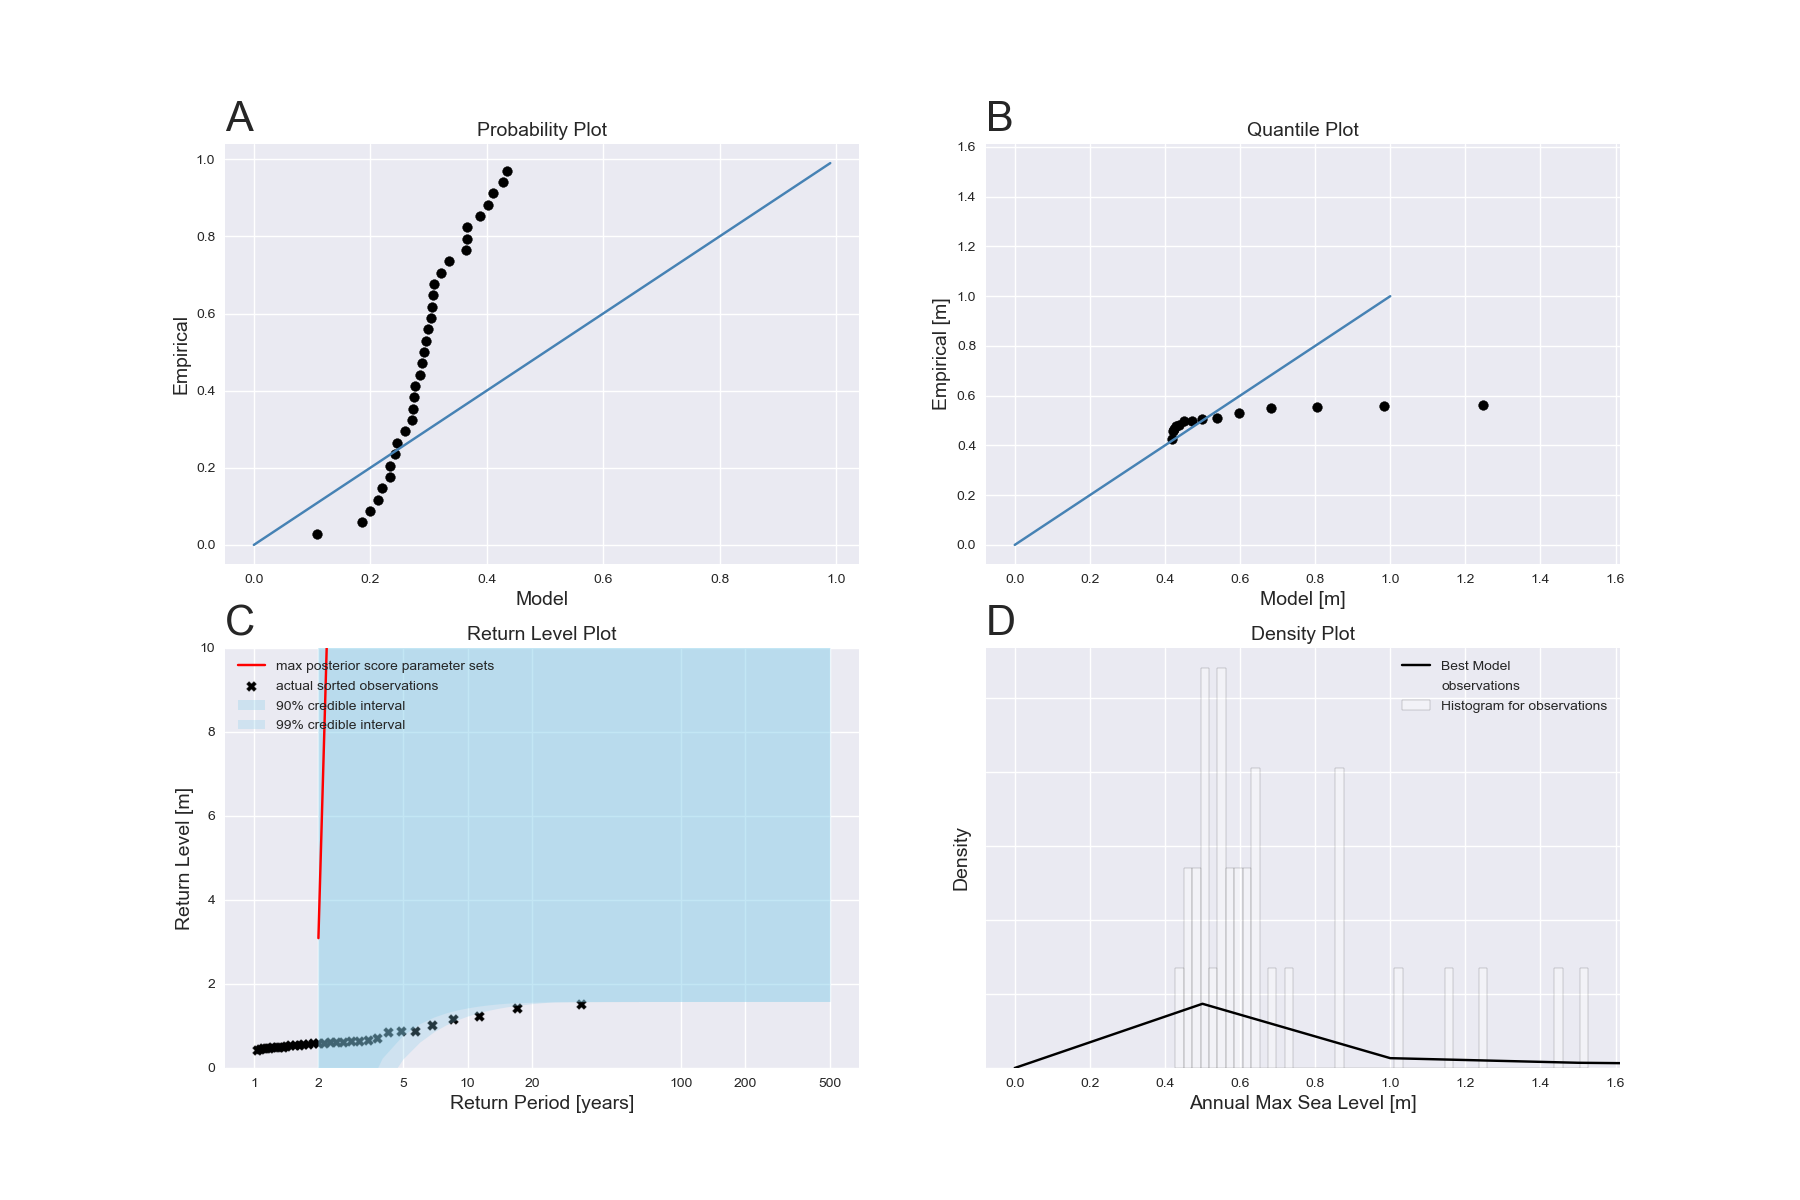
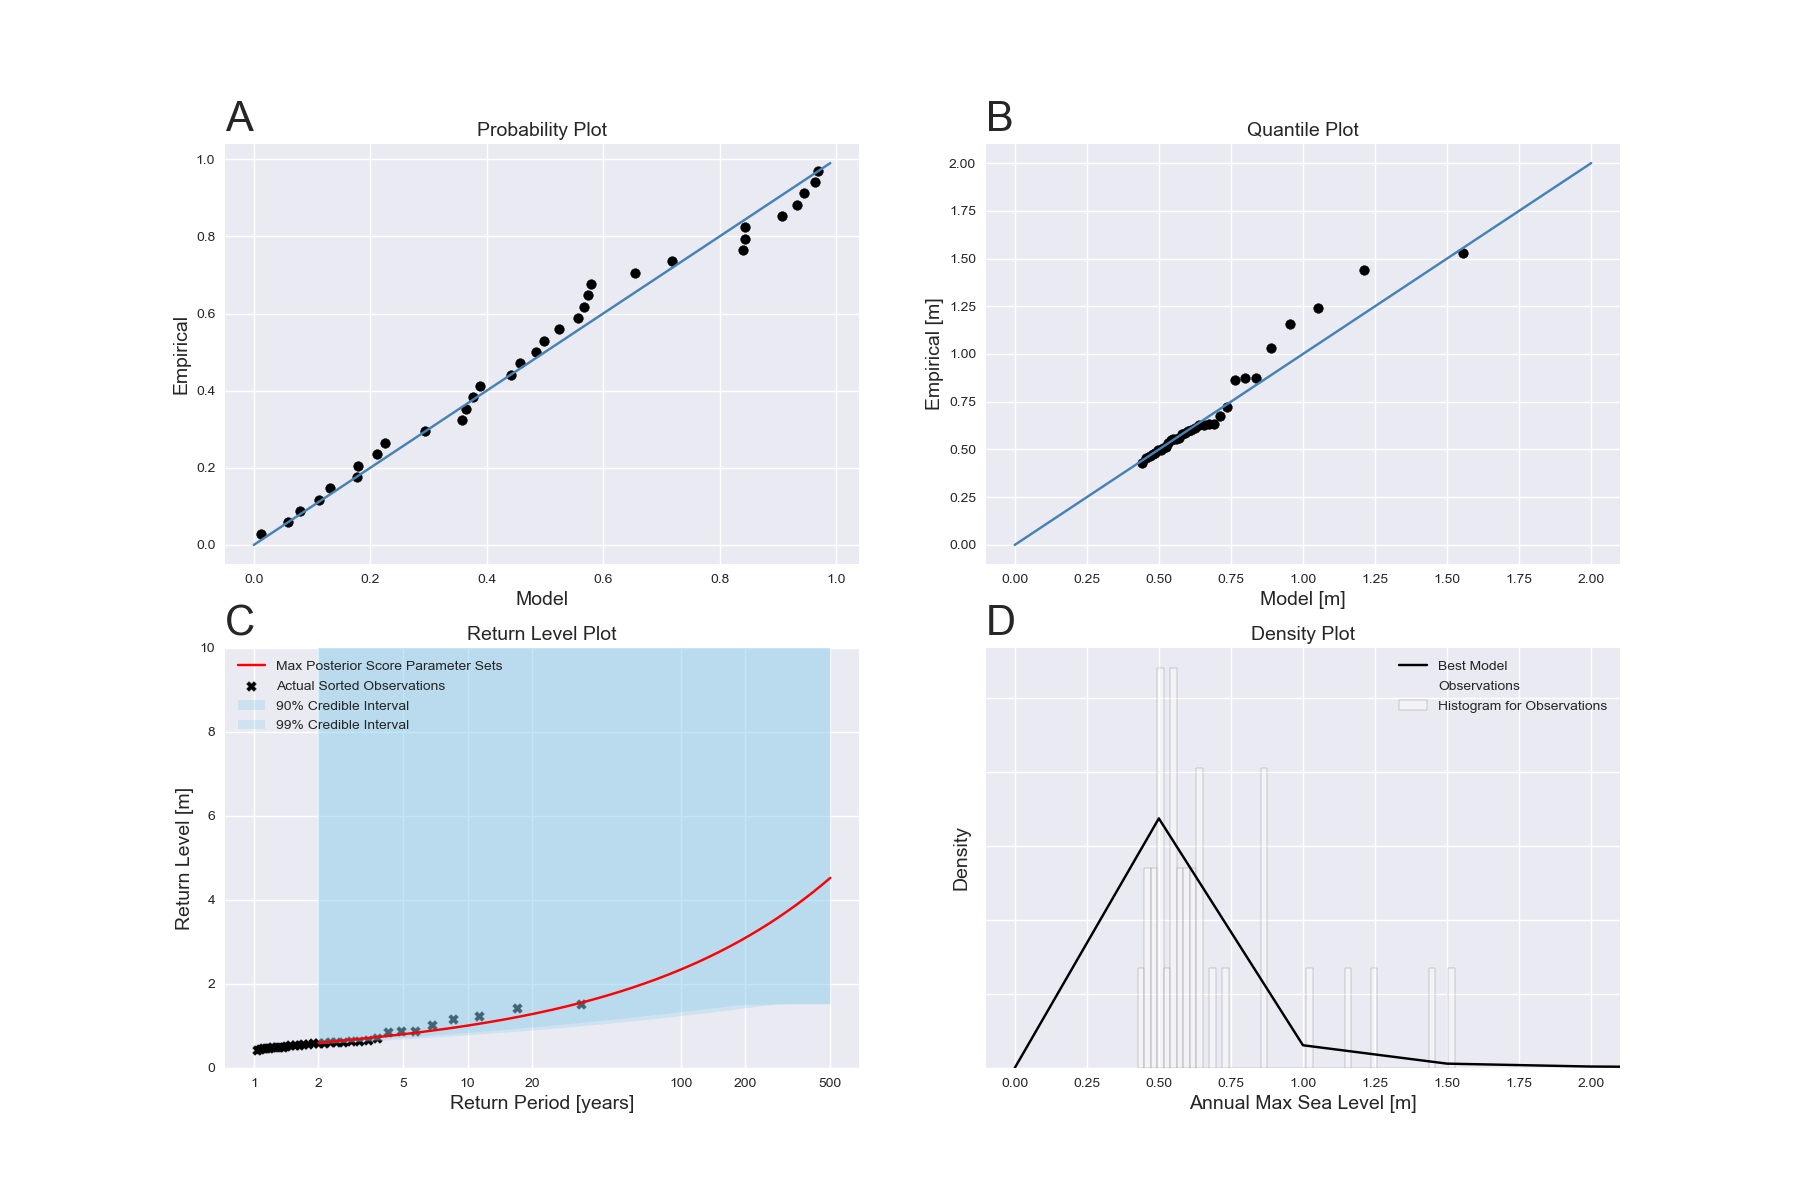
updated the diagnostic plots

diff --git a/sspipeline/core.py b/sspipeline/core.py
@@ -395,8 +395,8 @@ def diagnostic_plots(
 
         ax[0, 1].scatter(empirical, np.sort(data_meas), color="black")
         ax[0, 1].plot(
-            np.arange(0, max(data_meas)),
-            np.arange(0, max(data_meas)),
+            np.arange(0, int(round(np.max(data_meas), 0))+1),
+            np.arange(0, int(round(np.max(data_meas), 0))+1),
             color="steelblue",
         )
         ax[0, 1].set_title("Quantile Plot", fontsize=14)
@@ -411,7 +411,7 @@ def diagnostic_plots(
             np.log10(RP),
             RL_max,
             color="r",
-            label="max posterior score parameter sets",
+            label="Max Posterior Score Parameter Sets",
         )
         ax[1, 0].scatter(
             np.log10(
@@ -421,7 +421,7 @@ def diagnostic_plots(
                 ]
             ),
             np.sort(data_meas),
-            label="actual sorted observations",
+            label="Actual Sorted Observations",
             color="black",
             marker="X",
         )
@@ -430,7 +430,7 @@ def diagnostic_plots(
             y1=percentile_95,
             y2=percentile_5,
             alpha=0.3,
-            label="90% credible interval",
+            label="90% Credible Interval",
             facecolor="skyblue",
         )
         ax[1, 0].fill_between(
@@ -438,7 +438,7 @@ def diagnostic_plots(
             y1=percentile_995,
             y2=percentile_05,
             alpha=0.27,
-            label="99% credible interval",
+            label="99% Credible Interval",
             facecolor="skyblue",
         )
         ax[1, 0].legend(loc="upper left", fontsize=10)
@@ -456,9 +456,9 @@ def diagnostic_plots(
         ax[1, 1].hist(
             data_meas,
             bins=np.linspace(min(data_meas), max(data_meas)),
-            normed=True,
+            density=True,
             edgecolor="black",
-            label="Histogram for observations",
+            label="Histogram for Observations",
             color="white",
             alpha=0.4,
         )
@@ -469,7 +469,7 @@ def diagnostic_plots(
             "b+",
             ms=20,
             color="black",
-            label="observations",
+            label="Observations",
         )
         ax[1, 1].legend(loc="best", fontsize=10)
         ax[1, 1].set_yticklabels([])
